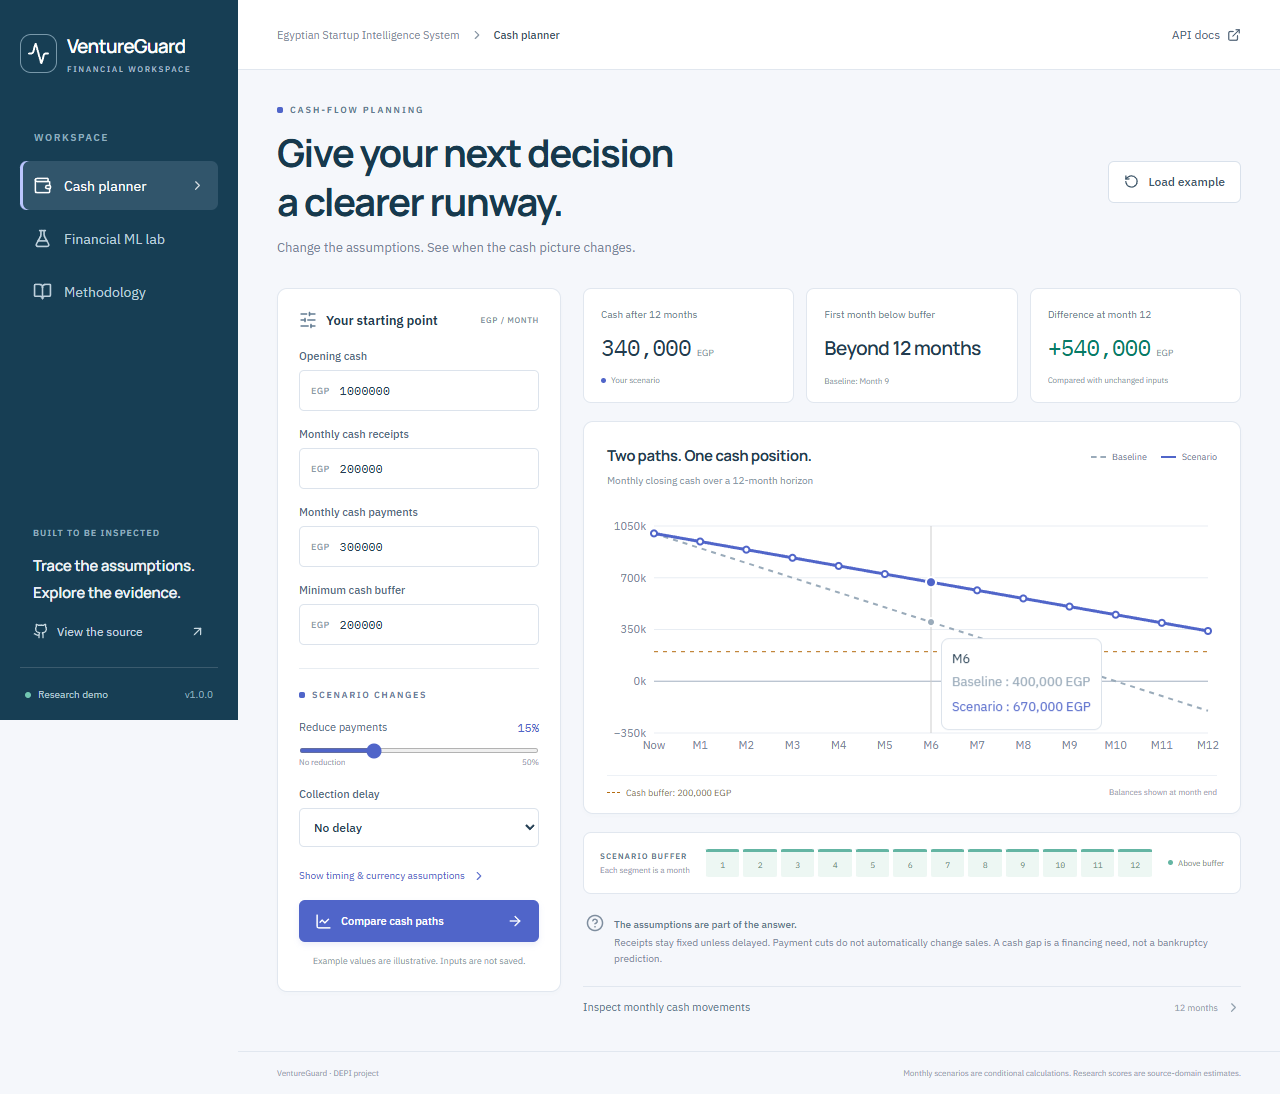
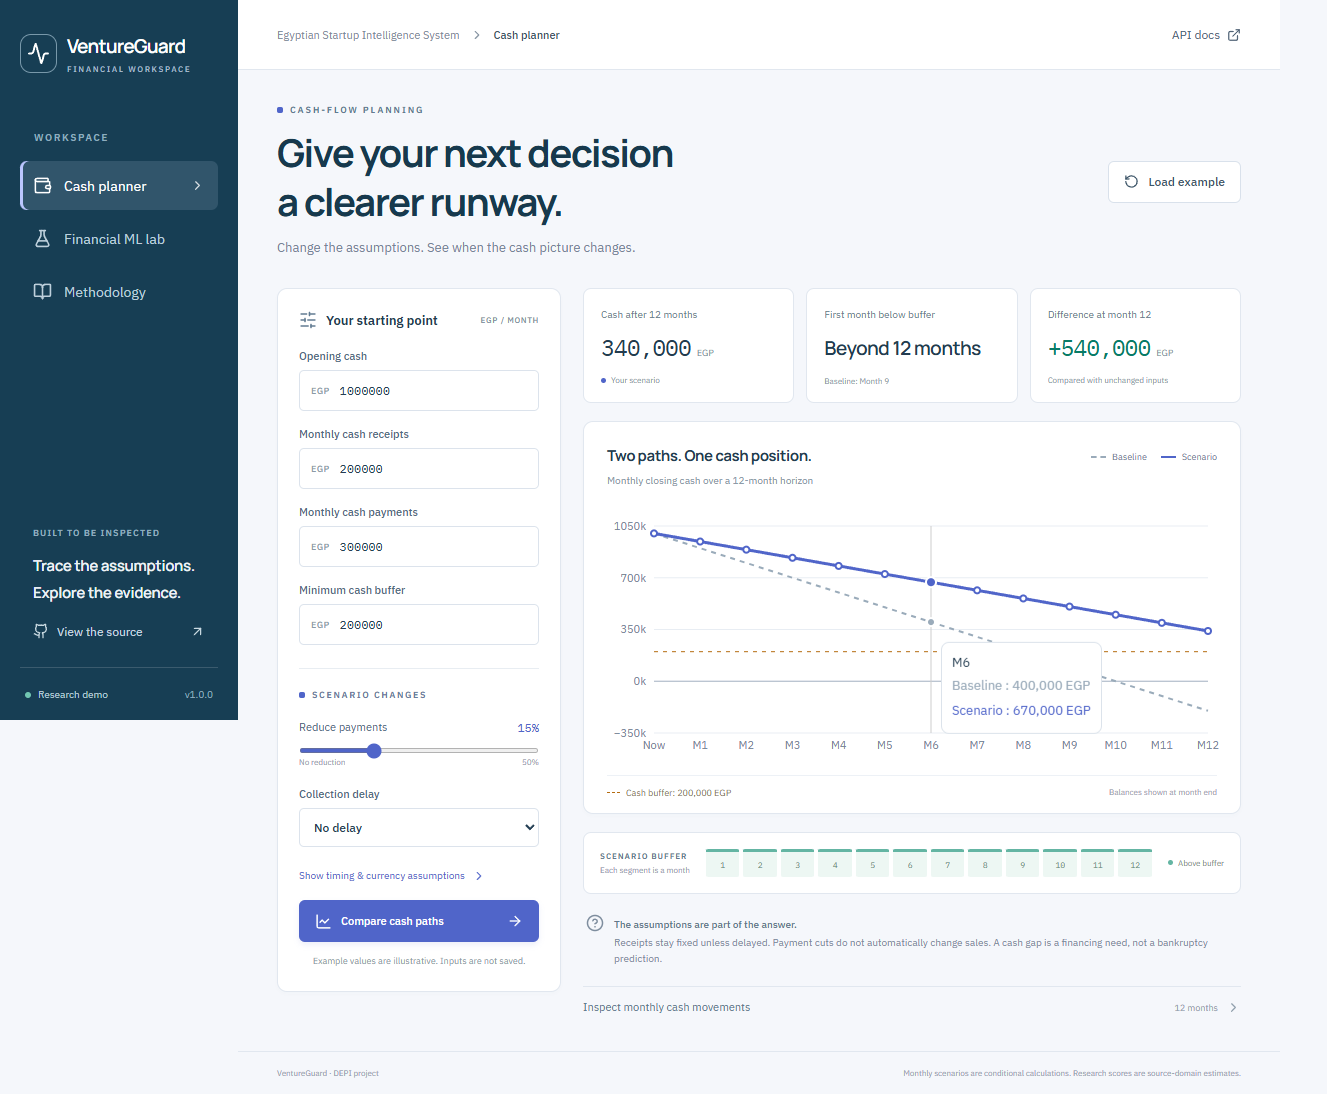
docs: publish verified Azure demo and release evidence

diff --git a/docs/DEPLOYMENT.md b/docs/DEPLOYMENT.md
@@ -1,6 +1,21 @@
 # Azure deployment
 
-Status: local implementation and verification in progress. A public URL is recorded only after successful deployment and external smoke tests.
+**Status: deployed and externally verified on 8 November 2026.**
+
+- [Live financial workspace](https://ventureguard.agreeablesea-8b0aa1c1.francecentral.azurecontainerapps.io)
+- [Live API docs](https://ventureguard.agreeablesea-8b0aa1c1.francecentral.azurecontainerapps.io/docs)
+- [Successful GitHub deployment run](https://github.com/Abdelrhman-Ameen/egyptian-startup-intelligence-system/actions/runs/42444538914)
+- Deployed source commit: `ce11b07269e20eb5ce2b3b5308fb5b00c1f6bd18`. Subsequent documentation/recording changes do not change this image's runtime code.
+- Region: `francecentral`; HTTPS only; 0.5 vCPU / 1 GiB; replicas 0–1.
+- The private registry has admin access disabled. GitHub uses OIDC and the app pulls images with a managed identity.
+
+## Verified behavior
+
+All 23 Python tests and four desktop/mobile browser flows passed. The four browser flows also passed against the public Azure URL. Twelve historical predictions from the live service matched frozen out-of-fold predictions within `1e-9`, and the known cash example reconciled. Sequential warm HTTP measurements from the verification client had a median of approximately 72 ms and p95 of 73 ms; this is not a load or cold-start benchmark.
+
+Evidence: [cloud smoke checks](../reports/ventureguard/cloud_validation.json), [deployment settings](../reports/ventureguard/deployment.json), [local container checks](../reports/ventureguard/validation.json), and the [short walkthrough](https://github.com/Abdelrhman-Ameen/egyptian-startup-intelligence-system/releases/download/v1.0.0/ventureguard-demo.webm).
+
+A project-resource-group monthly cost budget of **10 USD** is configured with actual-cost email alerts at 80% and 100%. Recipient details remain in Azure. These are notifications, not an automatic spending cap. Registry storage is billed independently of application scale-to-zero. Monitor cost and the student-credit expiry in the Azure portal.
 
 ## Hosting configuration
 

diff --git a/README.md b/README.md
@@ -4,7 +4,9 @@
 
 VentureGuard compares classical and PyTorch models on a historical bankruptcy benchmark, investigates how missing data affects performance, and provides an independently tested cash-flow planner through FastAPI and a responsive React workspace.
 
-Deployment status and the verified live URL are in [Deployment](docs/DEPLOYMENT.md). Measured results are in [Results](docs/RESULTS.md).
+**[Open the live Azure demo](https://ventureguard.agreeablesea-8b0aa1c1.francecentral.azurecontainerapps.io)** · **[API documentation](https://ventureguard.agreeablesea-8b0aa1c1.francecentral.azurecontainerapps.io/docs)** · **[Short walkthrough](https://github.com/Abdelrhman-Ameen/egyptian-startup-intelligence-system/releases/download/v1.0.0/ventureguard-demo.webm)**
+
+Deployed on Azure Container Apps in France Central with CPU inference and scale-to-zero. [Deployment evidence](docs/DEPLOYMENT.md) and [measured model results](docs/RESULTS.md) are published separately. The first visit after an idle period can take longer while the container starts.
 
 ![Cash-flow workspace](docs/images/cash-planner.png)
 
@@ -94,4 +96,4 @@ The research endpoint accepts `schema_name` (`core13` or `full64`) and exactly o
 - [Azure deployment](docs/DEPLOYMENT.md)
 - [Original parent-project plan](docs/ORIGINAL_PROJECT_PLAN.md)
 
-Earlier Spain, Taiwan and dataset-feasibility work remains in the research folders. It is not independent validation of this release. Original UCI data: Sebastian Tomczak (2016), [DOI 10.24432/C5F600](https://doi.org/10.24432/C5F600), CC BY 4.0. Derived demo cases and experiment outputs retain this attribution.
+Earlier source-evaluation work is retained in repository history and available research folders. It is not independent validation of this release. Original UCI data: Sebastian Tomczak (2016), [DOI 10.24432/C5F600](https://doi.org/10.24432/C5F600), CC BY 4.0. Derived demo cases and experiment outputs retain this attribution.
